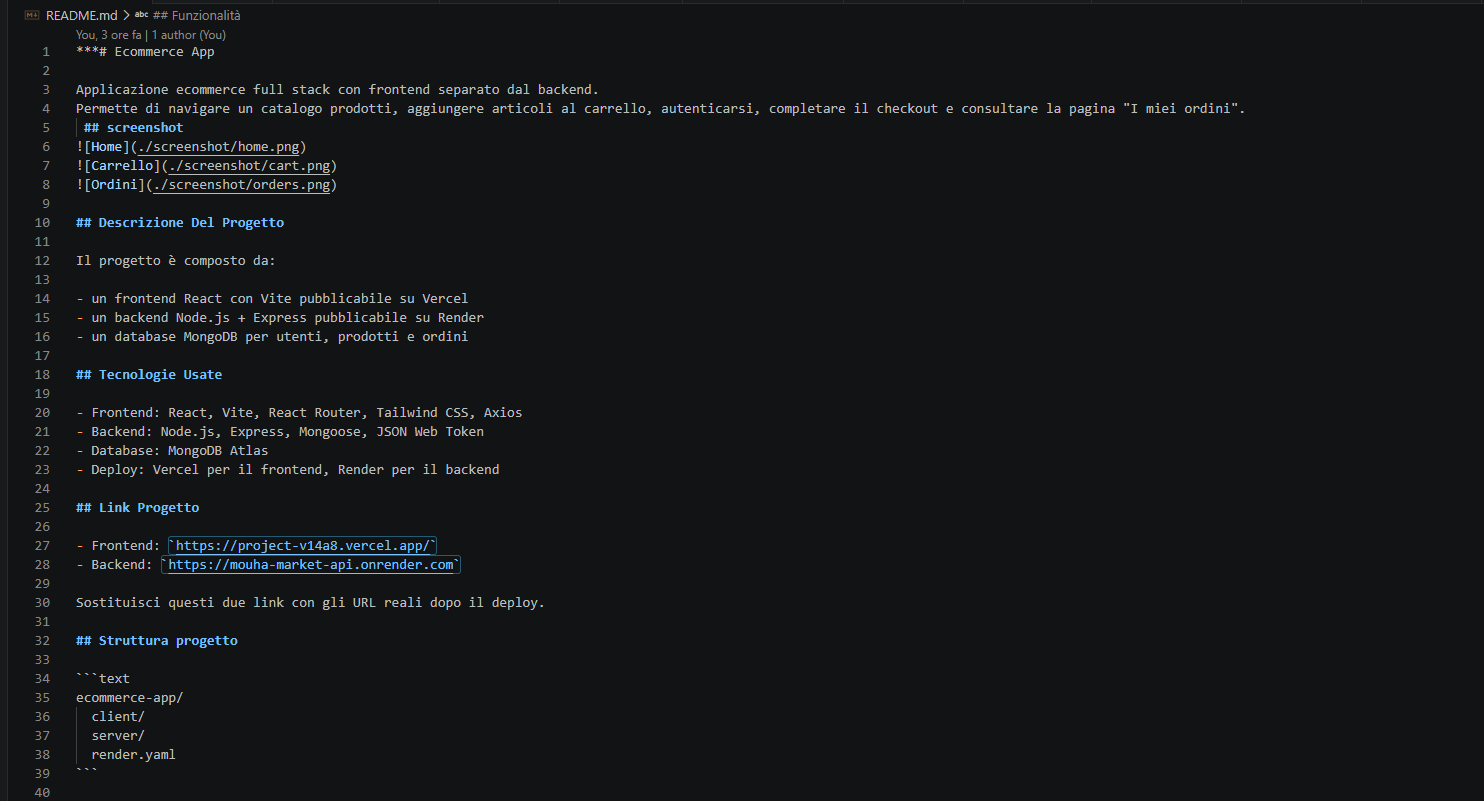
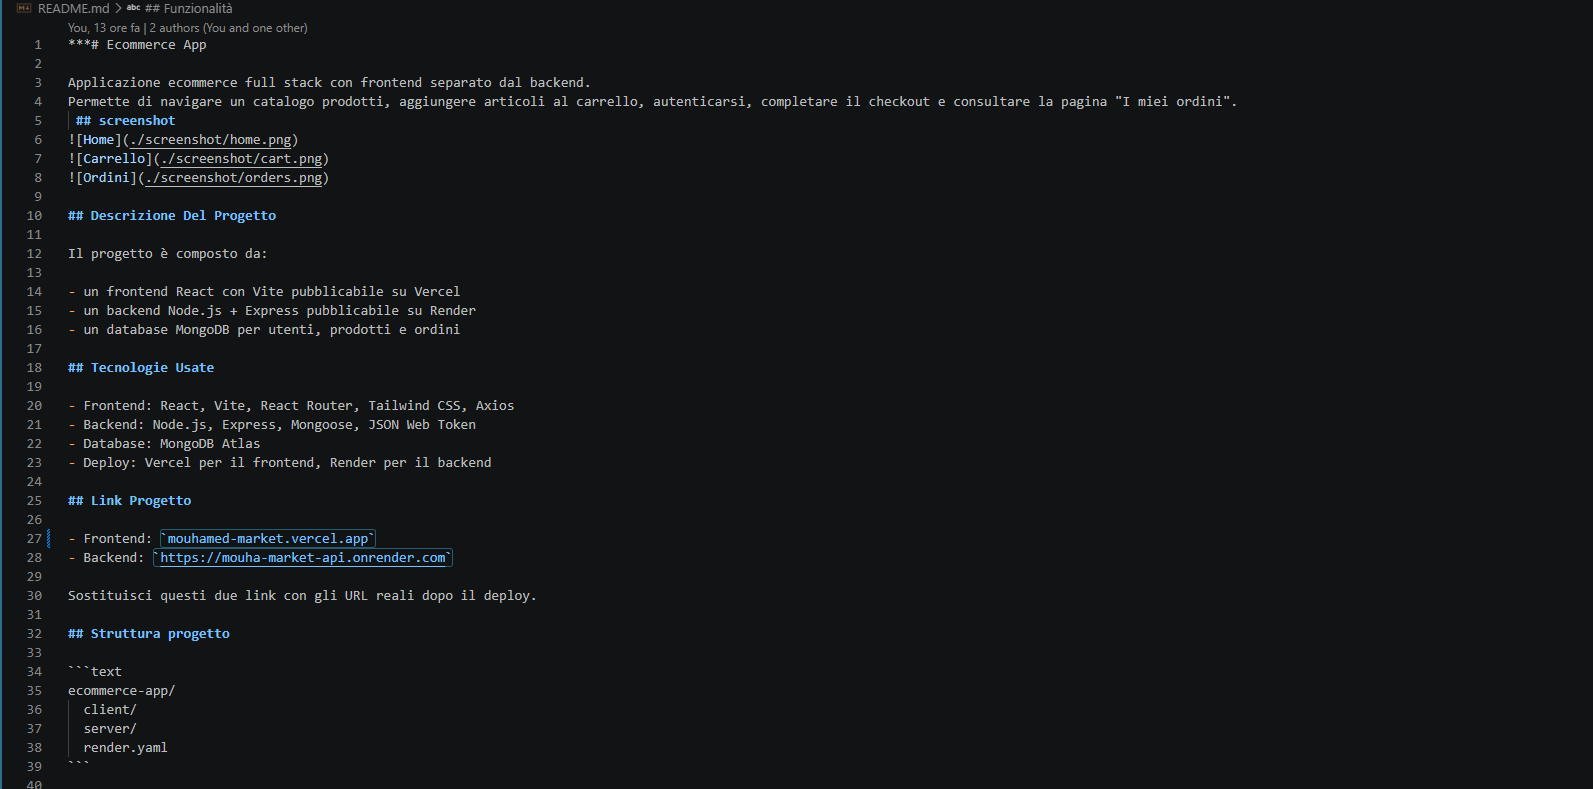
Update frontend live link

Changed region(s): [[0.0, 0.0, 0.8369, 1.0], [0.0, 0.0608, 0.031, 0.0913]]

diff --git a/README.md b/README.md
@@ -24,7 +24,7 @@ Il progetto è composto da:
 
 ## Link Progetto
 
-- Frontend: `https://project-v14a8.vercel.app/`
+- Frontend: `mouhamed-market.vercel.app`
 - Backend: `https://mouha-market-api.onrender.com`
 
 Sostituisci questi due link con gli URL reali dopo il deploy.